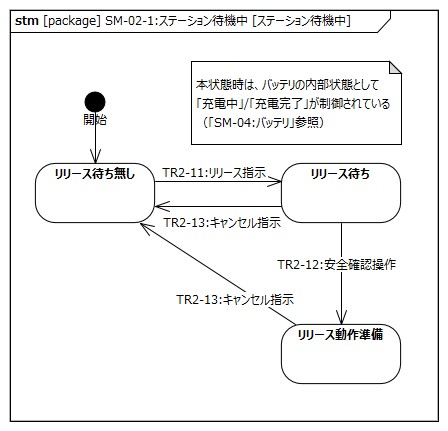
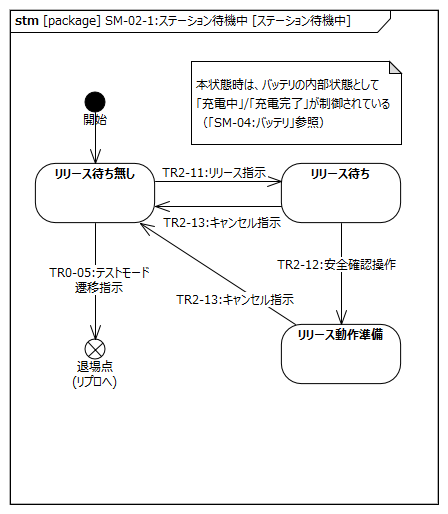
テストモードは動作中の一時停止、動作中内のステーション待機中のリリース待ち無し、異常の際に起動可能であるように修正

diff --git a/requirements/requirement.md b/requirements/requirement.md
@@ -1171,8 +1171,8 @@ date: 2022年1月31日
 |TR0-06|動作中 → リプロ|リプロモード遷移指示|SysRS-22|リプロモード遷移指示は書き換え用PCから送信される想定※2|
 |TR0-07|起動中 → 動作中|起動中の完了による自動遷移|SysRS-01|動作中遷移後はTR2-01/TR2-02で分岐する想定|
 
-※1:動作中内の一時停止またはステーション待機中から遷移する想定。一時停止およびステーション待機中については、「SM-02:動作中」参照  
-※2:動作中内の一時停止から遷移する想定。一時停止については、「SM-02:動作中」参照
+※1:動作中からは内部状態の一時停止およびステーション待機中内のリリース待ち無しから遷移する想定。一時停止については、「SM-02:動作中」参照。リリース待ち無しについては、「SM-02-1:ステーション待機中」参照  
+※2:動作中の内部状態の一時停止から遷移する想定。一時停止については、「SM-02:動作中」参照
 
 
 <!-- TODO:状態遷移図は適切な粒度・範囲で分割する -->
@@ -1210,14 +1210,15 @@ date: 2022年1月31日
 
 |状態|定義|備考|
 |:---|:---|:---|
-|一時停止|遠隔操作不可で停止（速度0）である状態||
+|一時停止|遠隔操作不可で停止（速度0）である状態|※1|
 |遠隔操作モード|遠隔操作可能で走行操作指示（前進/後退/旋回）/帰還指示を受け付ける状態|帰還指示は速度0時のみ受け付けの想定|
 |自律走行中|自律走行している状態|「ドッキング移動中」/「リリース移動中」を包含|
 |ドッキング移動中|帰還指示を受けて自律走行している状態||
 |リリース移動中|リリース指示を受けて自律走行している状態||
-|ステーション待機中|充電ステーションに接続された状態|内部状態は「SM-02-1:ステーション待機中」を参照※1|
+|ステーション待機中|充電ステーションに接続された状態|内部状態は「SM-02-1:ステーション待機中」を参照※2|
 
-※1:DC-ON検知時はサブシステム（バッテリ）の状態として「SM-04:バッテリ」の内部状態が制御されている想定
+※1:一時停止からはテストモード、リプロモードを起動可能な想定  
+※2:DC-ON検知時はサブシステム（バッテリ）の状態として「SM-04:バッテリ」の内部状態が制御されている想定
 
 
 ![](.images/statemachine/sm-02.png)
@@ -1236,7 +1237,7 @@ date: 2022年1月31日
 |TR2-08|ステーション待機中 → リリース移動中|DC-OFF検知|SysRS-03||
 |TR2-09|リリース移動中 → 遠隔操作モード|ステーション離脱検知|SysRS-03|ステーション離脱検知はリリースの自律走行終了のタイミング※1|
 |TR2-10|ステーション待機中 → 一時停止|手動リリース|SysRS-06|手押しで充電ステーションから切り離す操作※2|
-|TR0-05|一時停止/ステーション待機中 → テスト|テストモード遷移指示|SysRS-19,SysRS-20,SysRS-21|※3|
+|TR0-05|一時停止 → テスト|テストモード遷移指示|SysRS-19,SysRS-20,SysRS-21|※3|
 |TR0-06|一時停止 → リプロ|リプロモード遷移指示|SysRS-22|※4|
 
 
@@ -1253,9 +1254,10 @@ date: 2022年1月31日
 
 |状態|定義|備考|
 |:---|:---|:---|
-|リリース待ち無し|リリース動作を受けていない状態||
+|リリース待ち無し|リリース動作を受けていない状態|※1|
 |リリース待ち|リリースコマンドを受けて安全確認操作待ちの状態|安全確認操作は電源スイッチ短押しの想定|
 |リリース動作準備|安全確認操作を受けてDC-OFF検知する以前の状態|このタイミングが実質的に存在するかは要QA|
+※1:リリース待ち無しからはテストモードを起動可能な想定
 
 ![](.images/statemachine/sm-02-1.png)
 
@@ -1266,6 +1268,9 @@ date: 2022年1月31日
 |TR2-11|リリース待ち無し → リリース待ち|リリース指示|SysRS-03|リリース指示はアバターアプリから送信される想定|
 |TR2-12|リリース待ち → リリース動作準備|安全確認操作|SysRS-03|安全確認操作は電源スイッチ短押しの想定|
 |TR2-13|リリース待ち/リリース動作準備 → リリース待ち無し|キャンセル指示|SysRS-03|キャンセル指示はアバターアプリから送信される想定|
+|TR0-05|リリース待ち無し → テスト|テストモード遷移指示|SysRS-19,SysRS-20,SysRS-21|※1|
+
+※1:全体の状態遷移図のTR0-05として抽出済  
 
 <div style="page-break-before:always"></div>
 
@@ -1280,6 +1285,8 @@ date: 2022年1月31日
 |異常復帰操作可能|異常復帰操作を受け付ける状態|異常復帰操作は電源スイッチ短押しを想定。「Warning2」/「Caution」を包含※1|
 |Warning2|異常レベルがWarning2の状態|走行モータ回転異常などを想定|
 |Caution|異常レベルがCautionの状態|過負荷作業警告などのエラーを想定|
+
+※:異常時（「電源OFF」の「状態表示」での異常発生時は除く）でもテストモードの起動は可能な想定
 
 ![](.images/statemachine/sm-03.png)
 
@@ -2096,7 +2103,7 @@ SysRS-11と統合のため廃止
 - 備考
 	- TR0-02,TR0-05より
     	- 診断PCからのテストモード遷移指示によりテストモードを起動する想定
-    	- テストモードの起動は一時停止/ステーション待機中/異常の状態で可能な想定
+    	- テストモードの起動は一時停止/リリース待ち無し/異常の状態で可能な想定
     	- テスト終了後は電源OFF操作により終了する想定
 
 **要求抽出**
@@ -2127,7 +2134,7 @@ SysRS-11と統合のため廃止
 - 備考
 	- TR0-02,TR0-05より
     	- 診断PCからのテストモード遷移指示によりテストモードを起動する想定
-    	- テストモードの起動は一時停止/ステーション待機中/異常の状態で可能な想定
+    	- テストモードの起動は一時停止/リリース待ち無し/異常の状態で可能な想定
     	- テスト終了後は電源OFF操作により終了する想定
 
 **要求抽出**
@@ -2160,7 +2167,7 @@ SysRS-11と統合のため廃止
 	- 頭部および走行部の機能テストはそれぞれ独立した作業として行う
 	- TR0-02,TR0-05より
     	- 診断PCからのテストモード遷移指示によりテストモードを起動する想定
-    	- テストモードの起動は一時停止/ステーション待機中/異常の状態で可能な想定
+    	- テストモードの起動は一時停止/リリース待ち無し/異常の状態で可能な想定
     	- テスト終了後は電源OFF操作により終了する想定
 
 **要求抽出**
